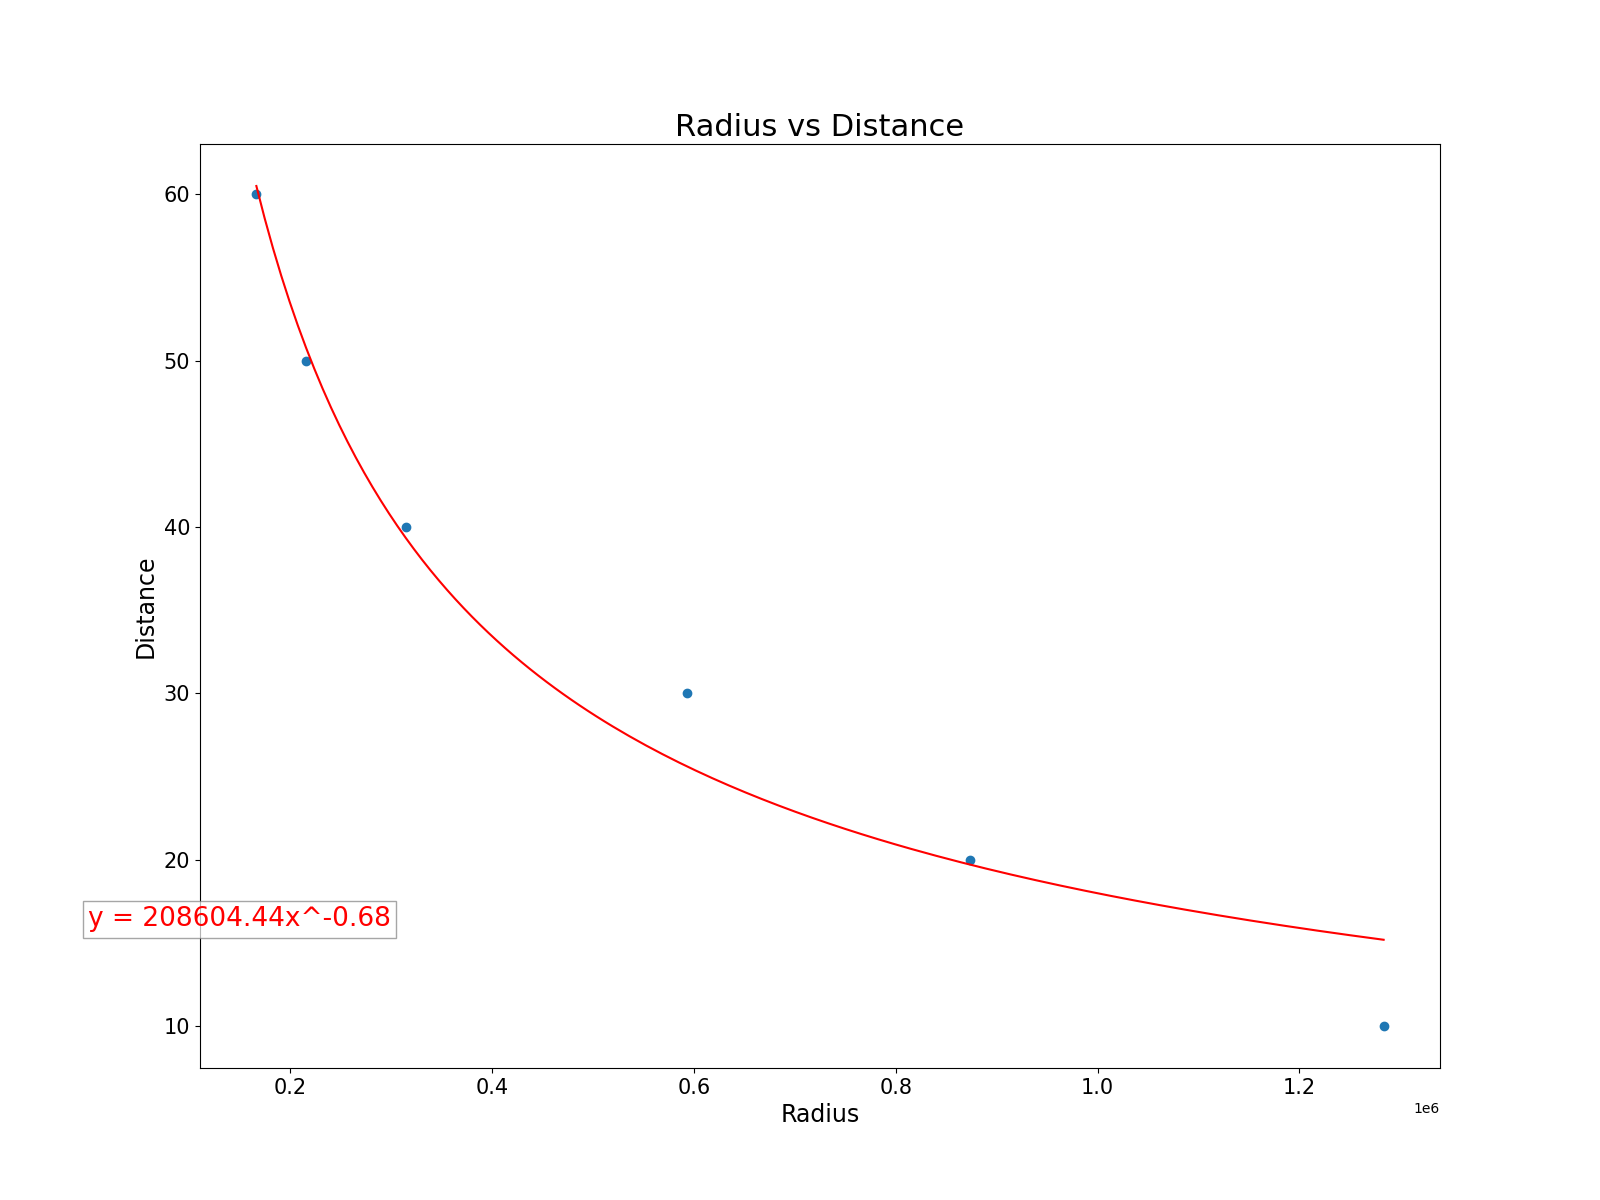
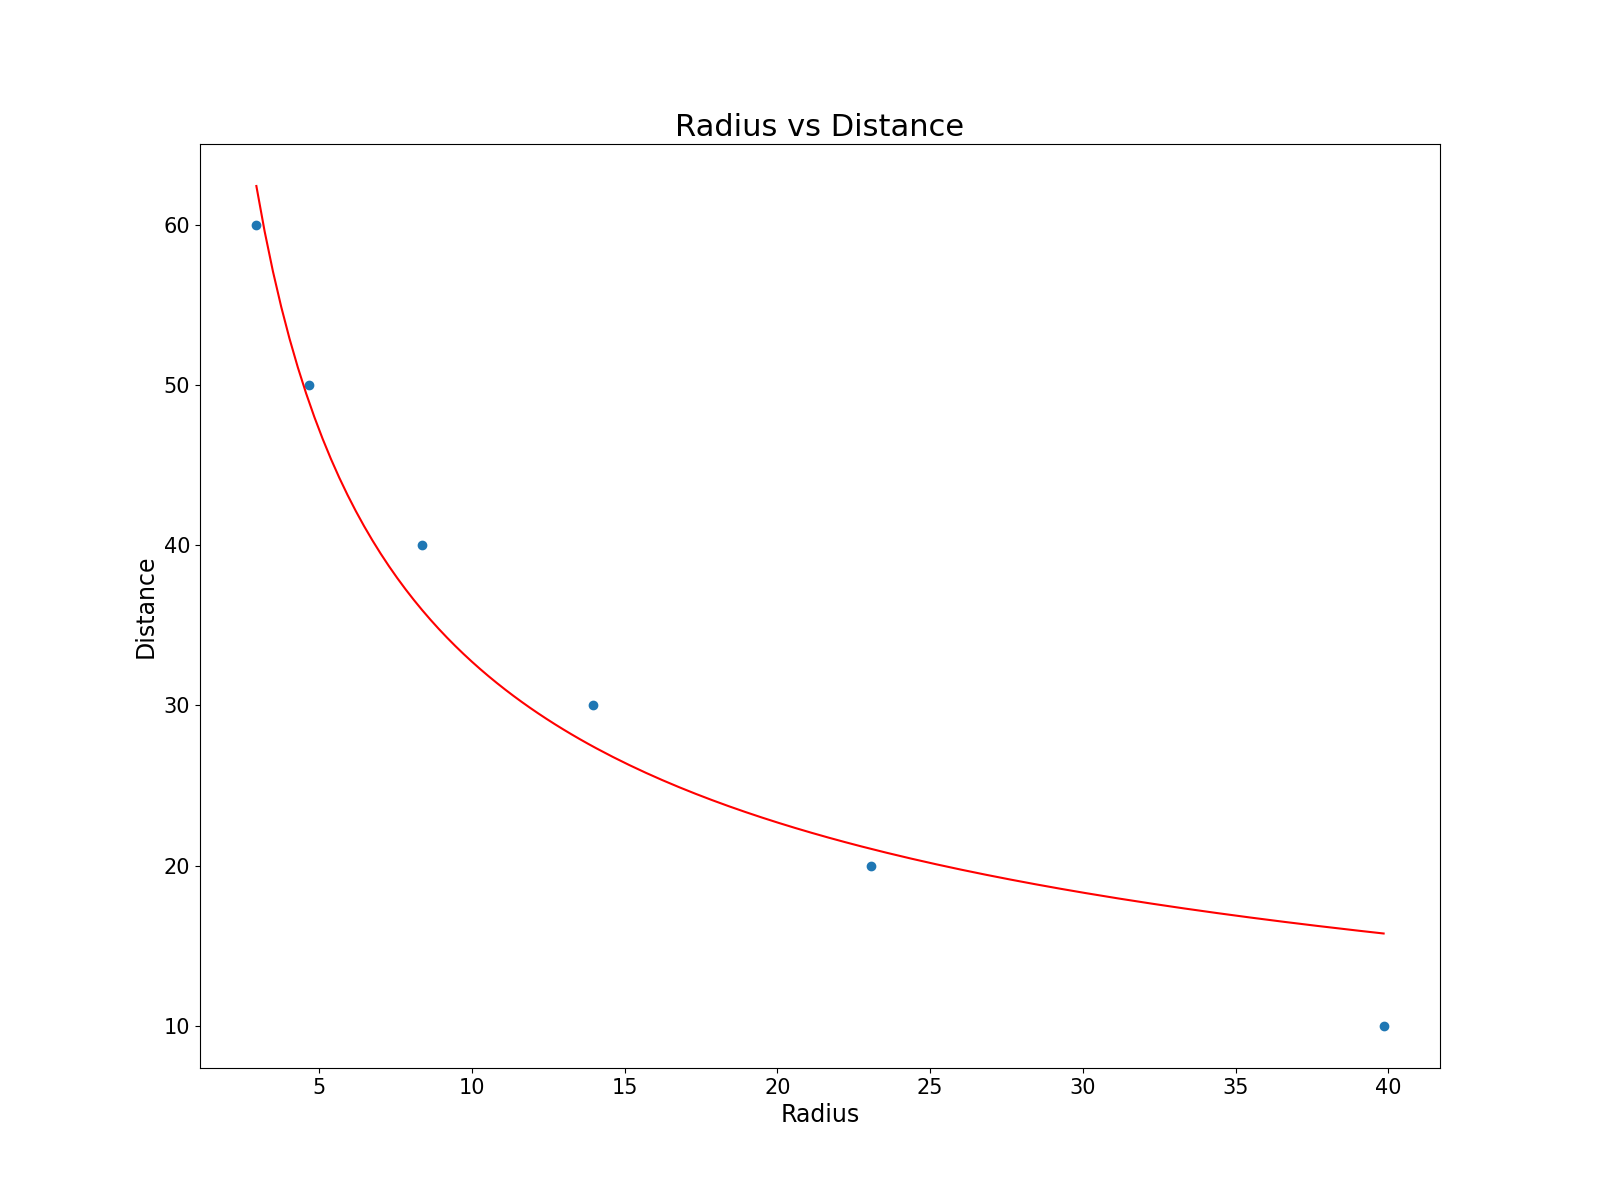
Flask livestream, fixed frame buffer overload

diff --git a/CameraCalibration/static/dist.js b/CameraCalibration/static/dist.js
@@ -65,7 +65,7 @@ function calibrateDistNext() {
             })
             .then(response => response.json())
             .then(data => {
-                distSteps.push({x: data.radius * data.radialDistance, y: originalStep});
+                distSteps.push({x: data.radius / data.radialDistance, y: originalStep});
             })
             .catch(error => {return 0;});
     }

diff --git a/CameraCalibration/camera.py b/CameraCalibration/camera.py
@@ -52,16 +52,22 @@ save_path = join(dirname(__file__), "save.json")
 
 with open(save_path, "r") as f:
     data = json.load(f)
-    dist = data["dist"]
-    angle = data["angle"]
+    # dist = data["dist"]
+    # angle = data["angle"]
     color = data["color"]
     camera_center = data["center"]
     f.close()
     
 def get_dist(radius):
+    with open(save_path, "r") as f:
+        data = json.load(f)
+        dist = data["dist"]
     return dist["k"] * pow(radius, dist["a"])
 
 def get_angle(x, distance):
+    with open(save_path, "r") as f:
+        data = json.load(f)
+        angle = data["angle"]
     normal_x = x / distance
     estimated_x = angle["m"] * normal_x + angle["c"]
     return atan2(estimated_x, distance)
@@ -236,10 +242,9 @@ class Camera:
                     self.pos = Vector(center)
                     delta_pos = self.pos.x - self.camera_center[0], self.pos.y - self.camera_center[1]
                     self.angle = -atan2(delta_pos[1], delta_pos[0])
-                    # self.angle = degrees(self.angle) # RADIANS TO DEGREES
                     self.radial_distance = sqrt(delta_pos[0]**2 + delta_pos[1]**2)
-                    self.radius = size[0] * size[1] # cv2.contourArea(c)
-                    self.distance = get_dist(self.radius * self.radial_distance)
+                    self.radius = size[0] * size[1]
+                    self.distance = get_dist(self.radius / self.radial_distance)
                     scale = size[0] * .006
                     
                     if self.draw_detections:
@@ -282,6 +287,7 @@ class Camera:
         # Resize to detection resolution
         if type(RESIZE_WIDTH) == int:
             frame = imutils.resize(frame, width=RESIZE_WIDTH)
+            
         frame = self.compute(frame)
 
         if self.preview == True:

diff --git a/CameraCalibration/server.py b/CameraCalibration/server.py
@@ -61,12 +61,16 @@ class Server(Flask):
         """
         Video Stream
         """
+        old_preview = None
         while self.show_preview:
             if self.preview is not None:
-                _, img_arr = cv2.imencode(".jpeg", self.preview)
-                img_bytes = img_arr.tobytes()
-                image = (b'--frame\r\n' b'Content-Type: image/jpeg\r\n\r\n' + img_bytes + b'\r\n')
-                yield image
+                if old_preview is not None:
+                    if not np.array_equal(old_preview, self.preview):
+                        _, img_arr = cv2.imencode(".jpeg", self.preview)
+                        img_bytes = img_arr.tobytes()
+                        image = (b'--frame\r\n' b'Content-Type: image/jpeg\r\n\r\n' + img_bytes + b'\r\n')
+                        yield image
+                old_preview = self.preview.copy()
 
     def _define_routes(self):
         def offer():

diff --git a/CameraCalibration/main.py b/CameraCalibration/main.py
@@ -8,6 +8,7 @@ from camera import Camera
 from server import Server
 from robot import Robot
 from fan import Fan
+import sys
 
 def update():
     """
@@ -33,17 +34,25 @@ def update():
 if __name__ == "__main__":
     camera = Camera("Soccer Robot", preview=False, draw_detections=False)
     camera.set_update(update)
-    server = Server(__name__)
     
     robot = Robot(camera)
     
     fan = Fan()
     fan.on()
-
+ 
     threads = [
-        # Thread(target=server.start),
         Thread(target=robot.start),
     ]
 
+    args = sys.argv
+    if len(args) > 1:
+        arg = args[1]
+    
+        if arg == "view":
+            print("Starting flask webserver")
+            camera.draw_detections = True
+            server = Server(__name__)
+            threads.append(Thread(target=server.start))
+           
     for thread in threads:
         thread.start()

diff --git a/CameraCalibration/robot.py b/CameraCalibration/robot.py
@@ -20,7 +20,10 @@ class Robot:
         self.camera = camera
         self.camera.set_update(self.update)
         
-        self.ser = serial.Serial(RECEIVER, BAUD_RATE, timeout=1)
+        try:
+            self.ser = serial.Serial(RECEIVER, BAUD_RATE, timeout=1)
+        except serial.serialutil.SerialException:
+            raise Exception("PI Pico is not connected to serial port on the RPI5.")
         self.ser.reset_input_buffer()
         
         self.tick = 0
@@ -32,7 +35,7 @@ class Robot:
         
         if self.distance and self.angle:
             self.send(self.distance, self.angle)
-        print(f"Distance: {str(self.distance): <16} Angle: {str(self.angle): <16}")
+        # print(f"Distance: {str(self.distance): <16} Angle: {str(self.angle): <16}")
         
         self.tick += 1
         if self.tick % 5 == 0:

diff --git a/CameraCalibration/calibrate.py b/CameraCalibration/calibrate.py
@@ -6,6 +6,7 @@ Run this file 'calibrate.py' and access the control panel at <ipv4-address>:8080
 from threading import Thread
 from camera import Camera
 from server import Server
+from fan import Fan
 
 def update():
     """
@@ -32,6 +33,9 @@ if __name__ == "__main__":
     camera = Camera("Ball Detector", preview=False, draw_detections=True)
     camera.set_update(update)
     server = Server(__name__)
+
+    fan = Fan()
+    fan.on()
 
     threads = [
         Thread(target=server.start),
